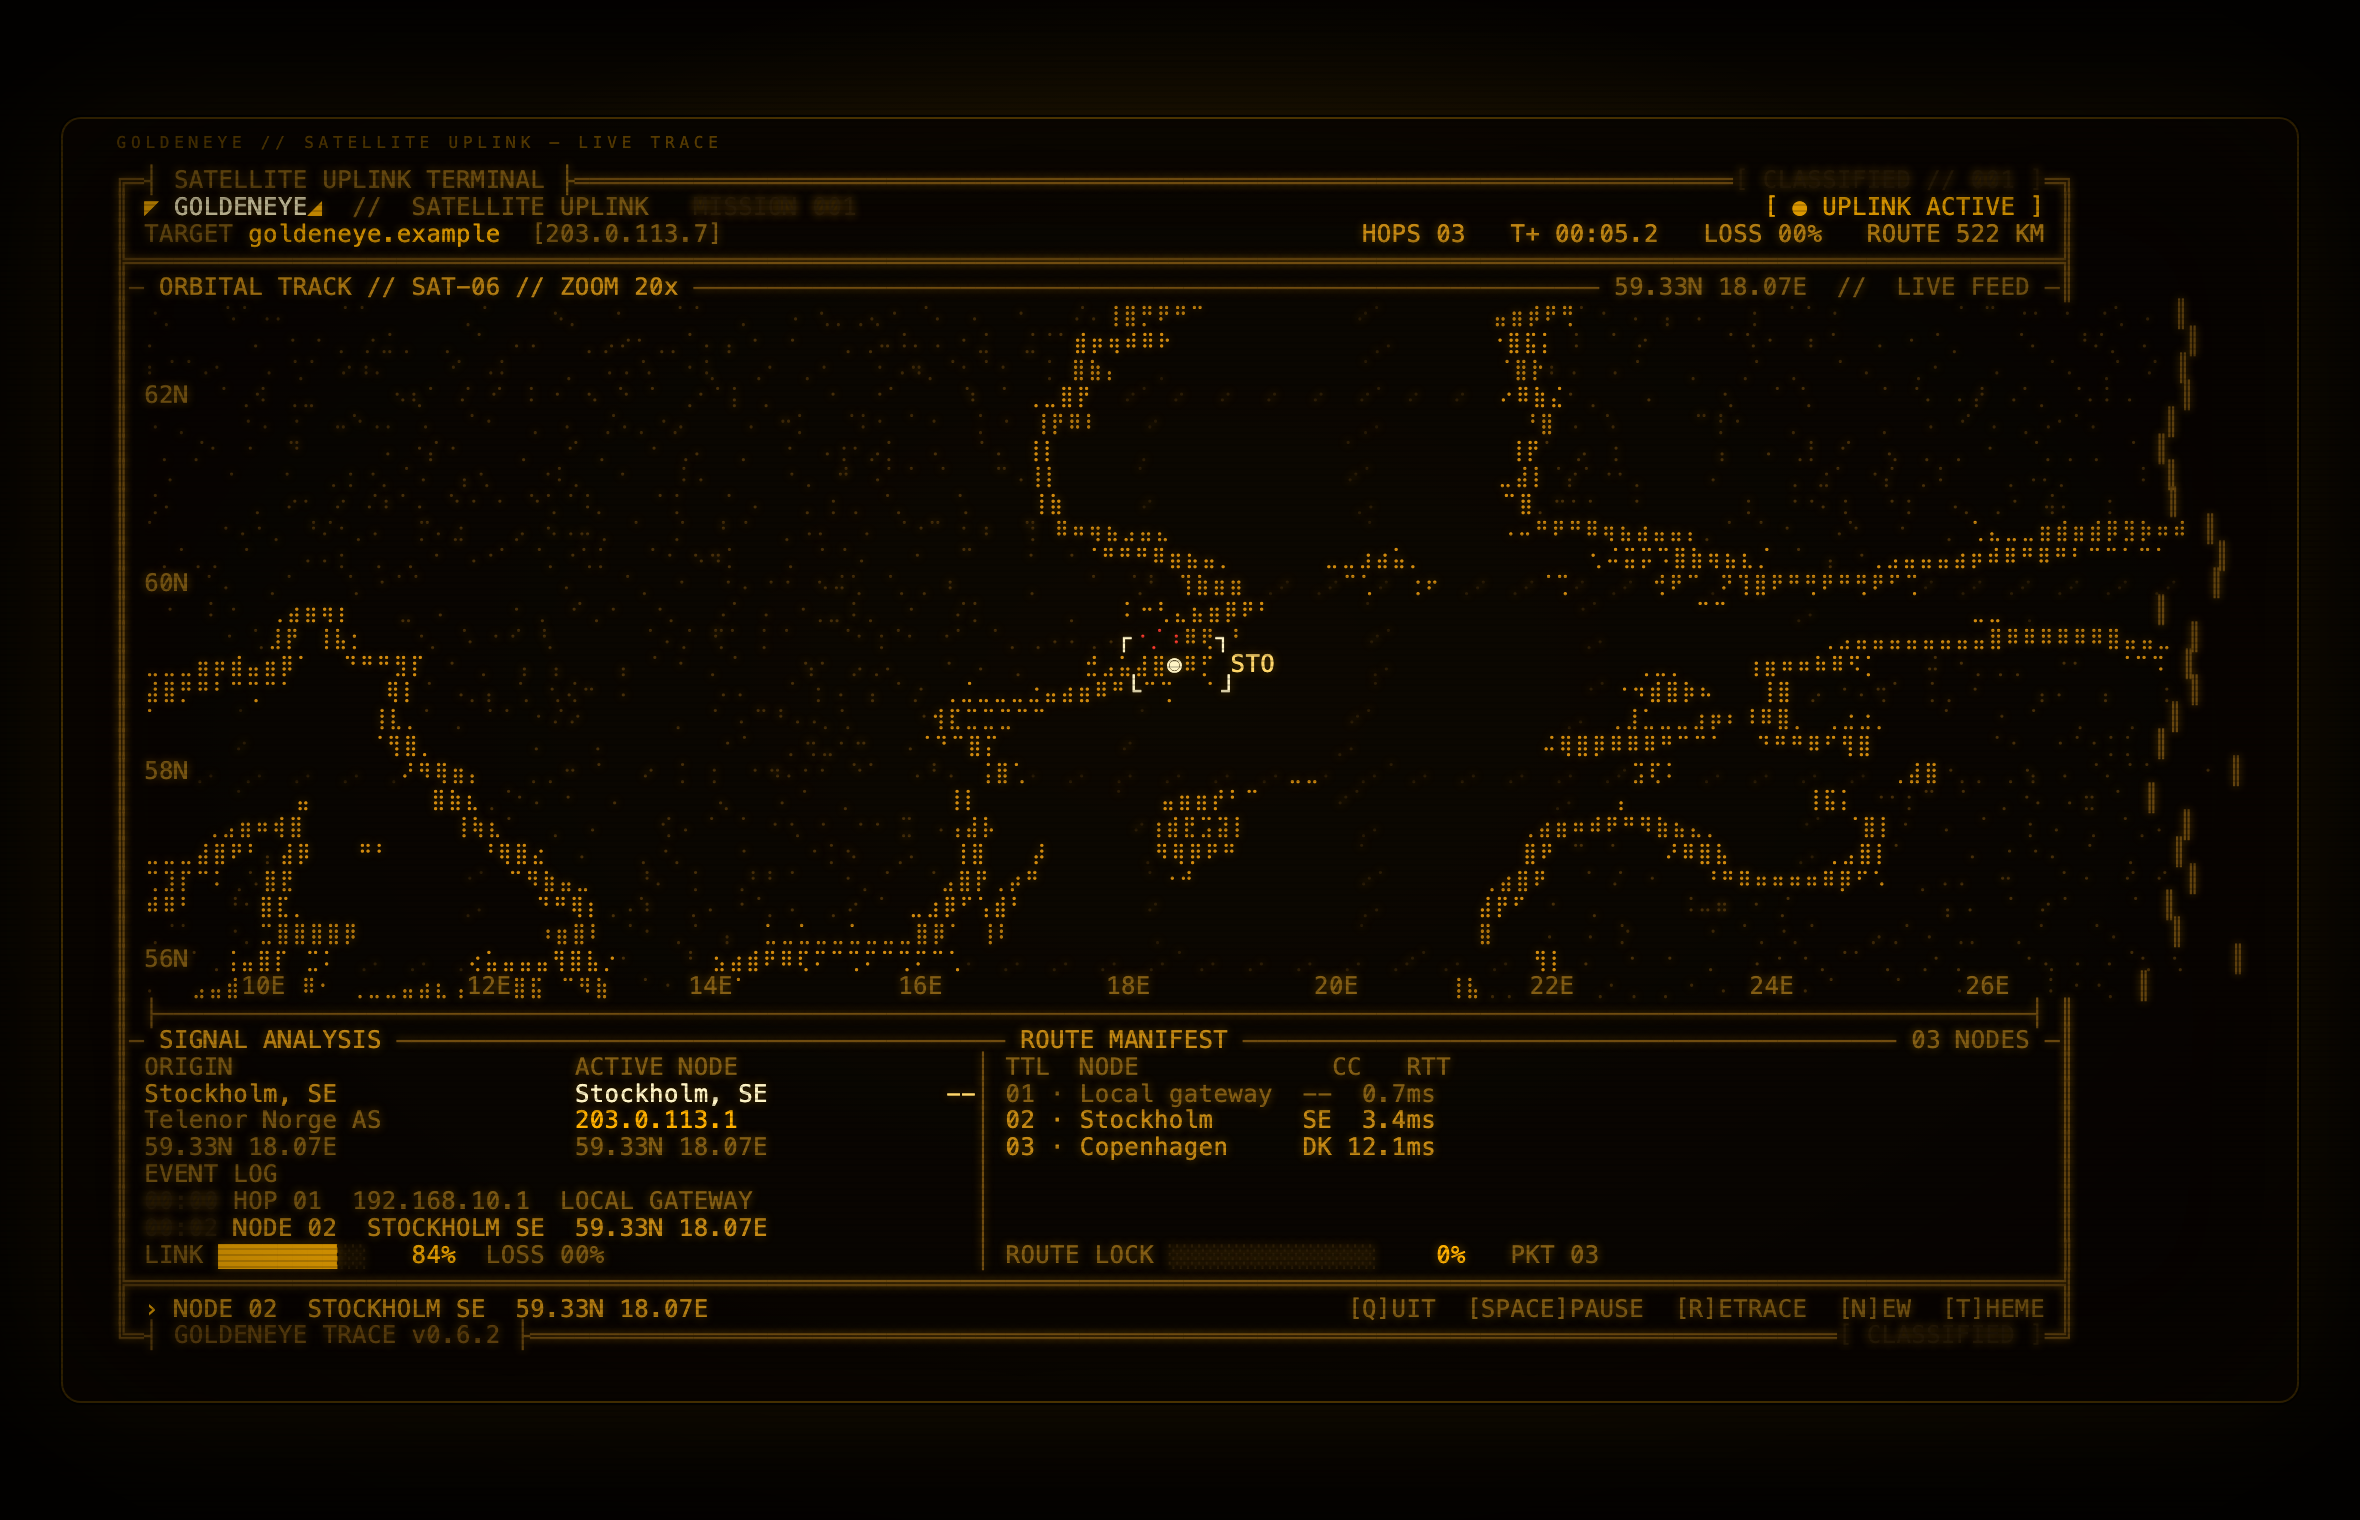
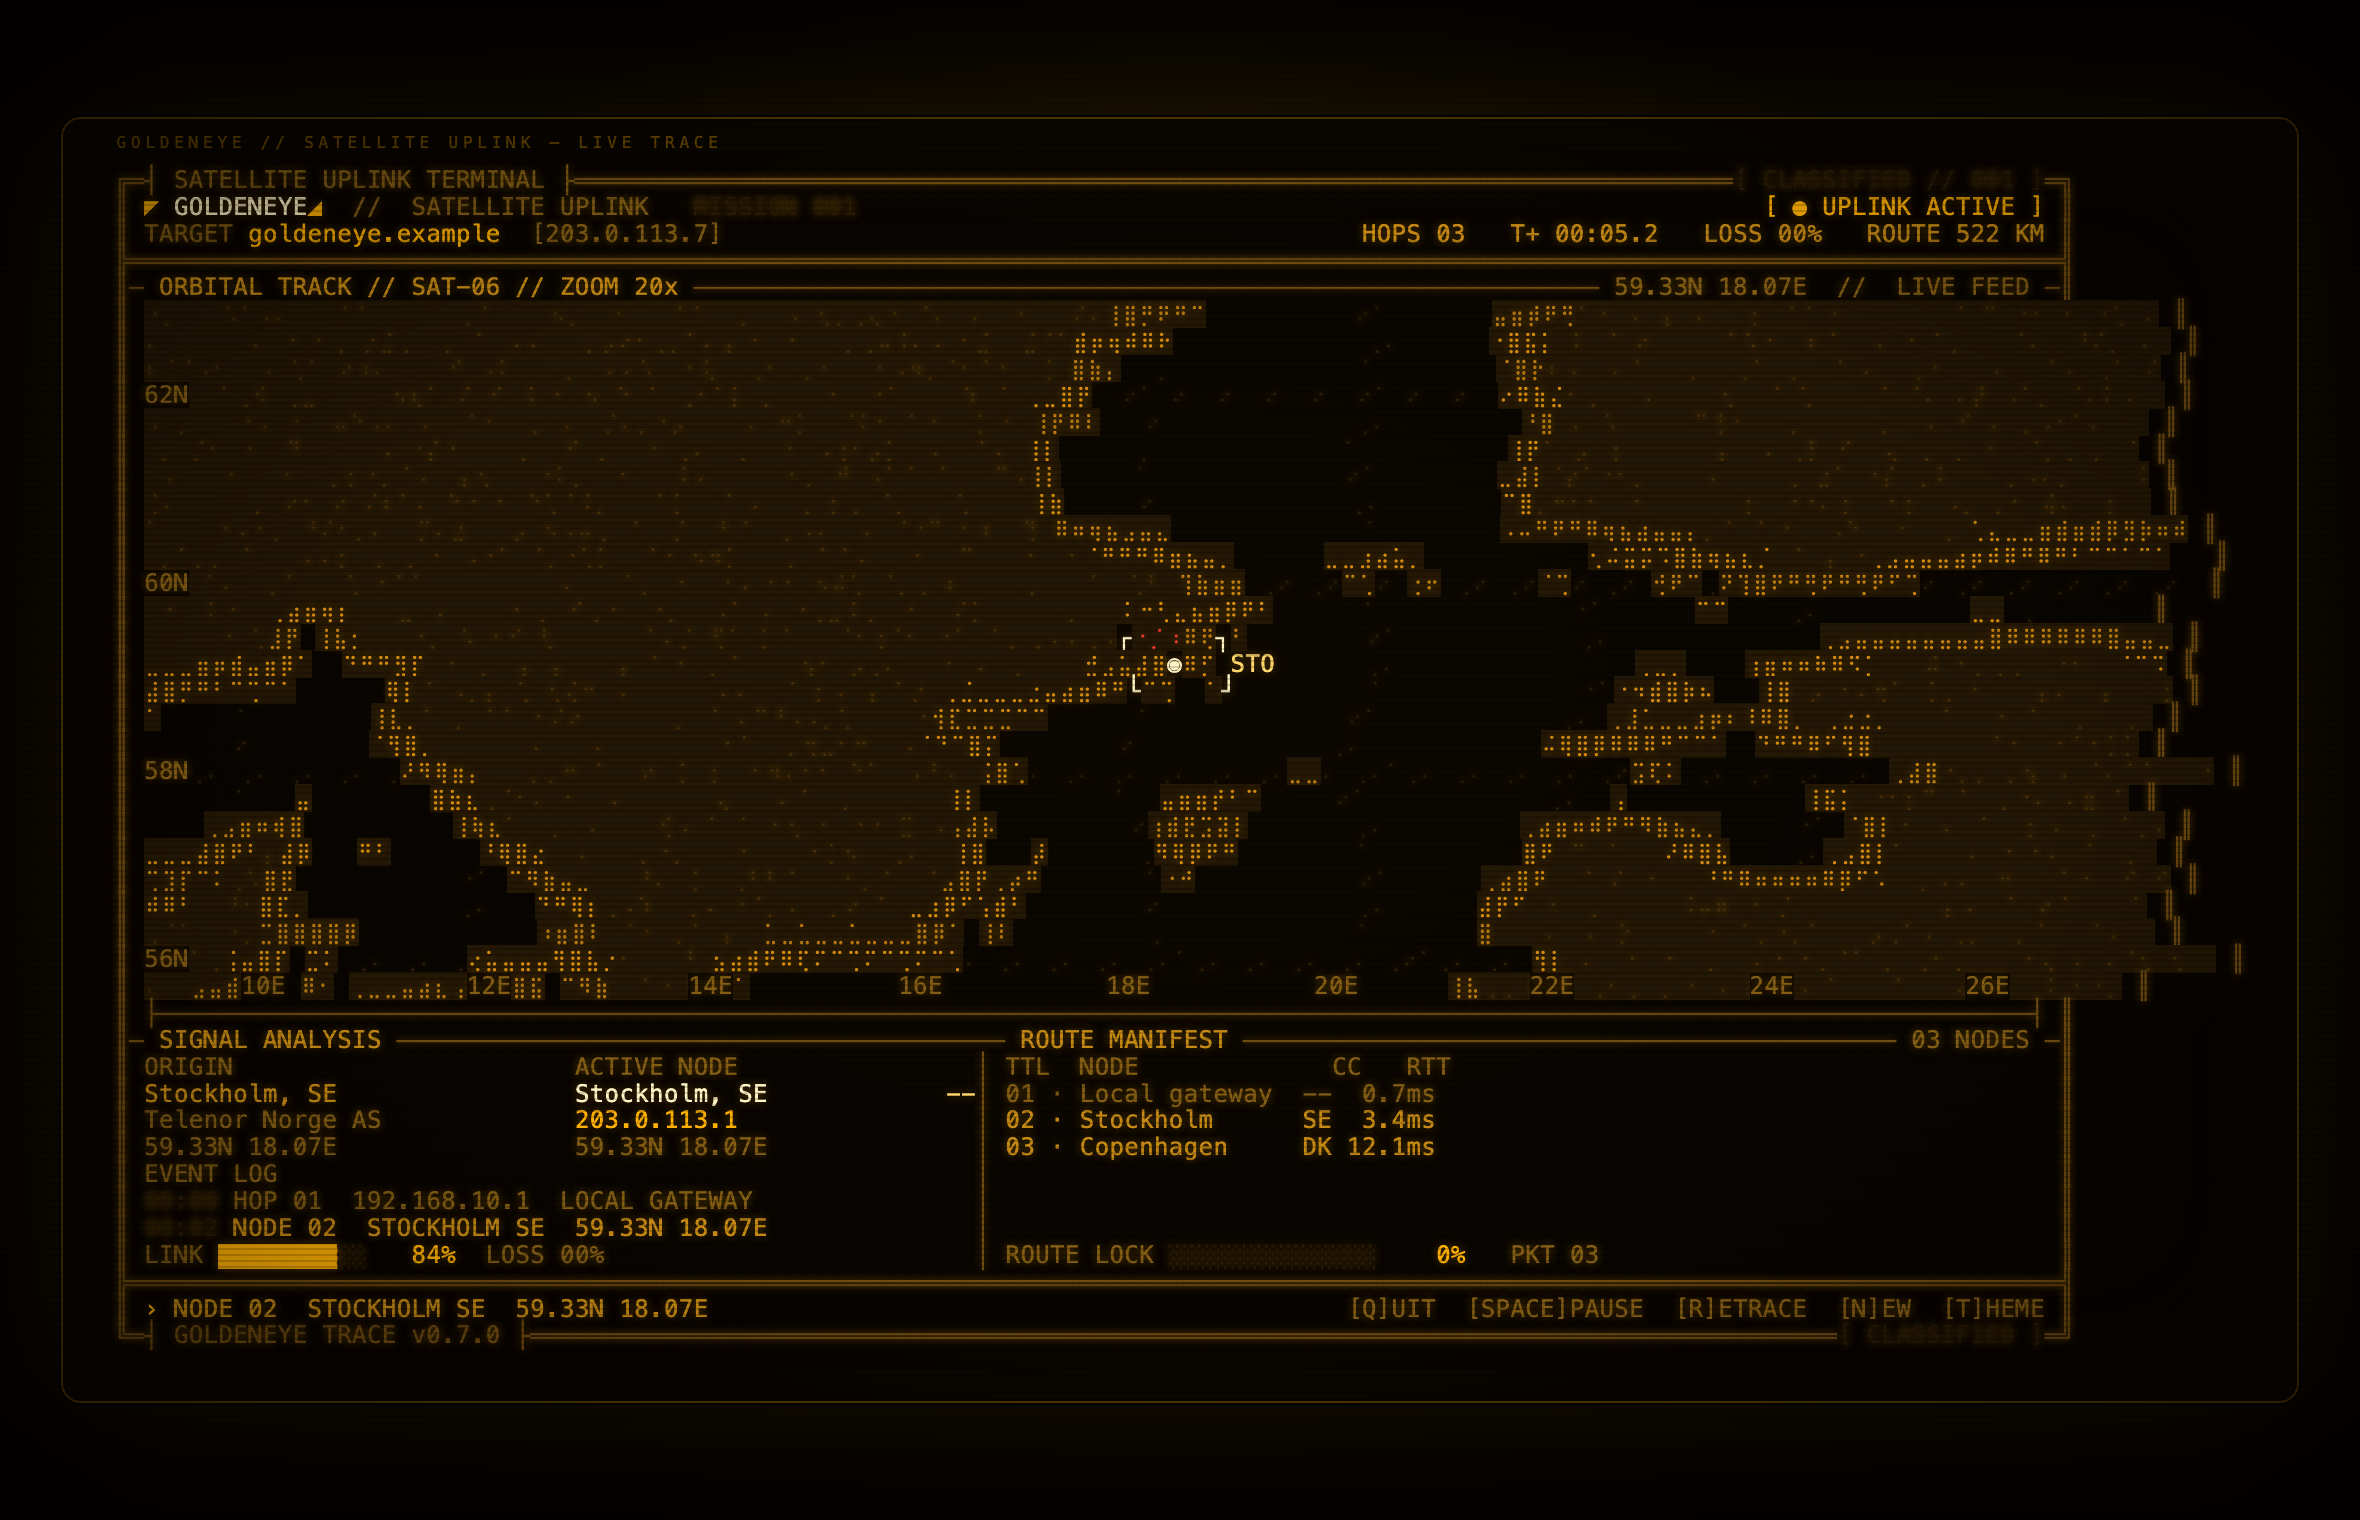
Tint land cells for clearer continents
Track land coverage per braille cell and give land a faint theme-specific background tint. Water stays on the terminal background, so coastlines and landmasses read clearly even where the stipple is sparse. Adds background color support to Screen and the preview renderer. Bumps the CLI to v0.7.0.

Changed region(s): [[0.0619, 0.1855, 0.5258, 0.6803], [0.6186, 0.1855, 0.928, 0.6803]]

diff --git a/src/render/braille.ts b/src/render/braille.ts
@@ -33,6 +33,7 @@ export class BrailleCanvas {
   private readonly levels: Uint8Array;
   /** Route dots, isolated so their color cannot spill onto neighboring dots. */
   private readonly routeBits: Uint8Array;
+  private readonly landCells: Uint8Array;
 
   constructor(cols: number, rows: number) {
     this.cols = Math.max(1, Math.floor(cols));
@@ -42,6 +43,16 @@ export class BrailleCanvas {
     this.bits = new Uint8Array(this.cols * this.rows);
     this.levels = new Uint8Array(this.cols * this.rows);
     this.routeBits = new Uint8Array(this.cols * this.rows);
+    this.landCells = new Uint8Array(this.cols * this.rows);
+  }
+
+  /** Marks the character cell containing this dot as land, including empty cells. */
+  markLand(x: number, y: number): void {
+    const dotX = Math.round(x);
+    const dotY = Math.round(y);
+    if (dotX < 0 || dotY < 0 || dotX >= this.dotWidth || dotY >= this.dotHeight) return;
+    const index = Math.floor(dotY / 4) * this.cols + Math.floor(dotX / 2);
+    this.landCells[index] = 1;
   }
 
   plot(x: number, y: number, level: CanvasLevel): void {
@@ -105,17 +116,21 @@ export class BrailleCanvas {
       for (let col = 0; col < this.cols; col += 1) {
         const index = row * this.cols + col;
         const bits = this.bits[index] ?? 0;
-        if (bits === 0) continue;
-        const routeBits = this.routeBits[index] ?? 0;
-        if (routeBits !== 0) {
-          // A braille cell has one foreground color. Drawing the union of its
-          // land/grid and route dots would tint the surrounding dots red, which
-          // makes the route look wider than it is. Keep only route dots here.
-          screen.put(offsetX + col, offsetY + row, String.fromCharCode(BRAILLE_BASE + routeBits), "route");
-          continue;
+        if (bits !== 0) {
+          const routeBits = this.routeBits[index] ?? 0;
+          if (routeBits !== 0) {
+            // A braille cell has one foreground color. Drawing the union of its
+            // land/grid and route dots would tint the surrounding dots red, which
+            // makes the route look wider than it is. Keep only route dots here.
+            screen.put(offsetX + col, offsetY + row, String.fromCharCode(BRAILLE_BASE + routeBits), "route");
+          } else {
+            const level = (this.levels[index] ?? 0) as CanvasLevel;
+            screen.put(offsetX + col, offsetY + row, String.fromCharCode(BRAILLE_BASE + bits), LEVEL_ROLES[level]);
+          }
         }
-        const level = (this.levels[index] ?? 0) as CanvasLevel;
-        screen.put(offsetX + col, offsetY + row, String.fromCharCode(BRAILLE_BASE + bits), LEVEL_ROLES[level]);
+        if (this.landCells[index] === 1) {
+          screen.setBackground(offsetX + col, offsetY + row, "landBg");
+        }
       }
     }
   }

diff --git a/src/render/screen.ts b/src/render/screen.ts
@@ -1,11 +1,14 @@
-import { foreground, type StyleRole, type Theme } from "../theme.ts";
+import { background, foreground, type StyleRole, type Theme } from "../theme.ts";
 
 interface Cell {
   ch: string;
   role: StyleRole | null;
+  bg: StyleRole | null;
 }
 
 const RESET = "\x1b[0m";
+const RESET_FG = "\x1b[39m";
+const RESET_BG = "\x1b[49m";
 
 export class Screen {
   readonly width: number;
@@ -18,6 +21,7 @@ export class Screen {
     this.cells = Array.from({ length: this.width * this.height }, () => ({
       ch: " ",
       role: null,
+      bg: null,
     }));
   }
 
@@ -33,7 +37,14 @@ export class Screen {
     for (const cell of this.cells) {
       cell.ch = ch;
       cell.role = role;
+      cell.bg = null;
     }
+  }
+
+  setBackground(x: number, y: number, role: StyleRole | null): void {
+    if (!this.inside(x, y)) return;
+    const cell = this.cells[this.index(x, y)];
+    if (cell) cell.bg = role;
   }
 
   put(x: number, y: number, text: string, role: StyleRole | null = null, maxWidth = Infinity): void {
@@ -47,6 +58,7 @@ export class Screen {
         if (cell) {
           cell.ch = ch;
           cell.role = role;
+          cell.bg = null;
         }
       }
       cursor += 1;
@@ -65,6 +77,7 @@ export class Screen {
           if (cell) {
             cell.ch = ch;
             cell.role = role;
+            cell.bg = null;
           }
         }
       }
@@ -116,19 +129,24 @@ export class Screen {
     const output: string[] = [];
     for (let y = 0; y < this.height; y += 1) {
       let line = "";
-      let current: StyleRole | null = null;
+      let currentRole: StyleRole | null = null;
+      let currentBg: StyleRole | null = null;
       for (let x = 0; x < this.width; x += 1) {
         const cell = this.cells[this.index(x, y)];
         if (!cell) continue;
         if (color) {
-          if (cell.role !== current) {
-            line += cell.role === null ? RESET : foreground(theme, cell.role);
-            current = cell.role;
+          if (cell.bg !== currentBg) {
+            line += cell.bg === null ? RESET_BG : background(theme, cell.bg);
+            currentBg = cell.bg;
+          }
+          if (cell.role !== currentRole) {
+            line += cell.role === null ? RESET_FG : foreground(theme, cell.role);
+            currentRole = cell.role;
           }
         }
         line += cell.ch;
       }
-      if (color && current !== null) line += RESET;
+      if (color && (currentRole !== null || currentBg !== null)) line += RESET;
       output.push(line);
     }
     return output;

diff --git a/src/theme.ts b/src/theme.ts
@@ -4,6 +4,7 @@ export type StyleRole =
   | "frame"
   | "grid"
   | "land"
+  | "landBg"
   | "coast"
   | "dim"
   | "mid"
@@ -28,6 +29,7 @@ export const THEMES: Record<ThemeName, Theme> = {
       frame: [112, 76, 16],
       grid: [42, 28, 6],
       land: [70, 46, 9],
+      landBg: [35, 23, 5],
       coast: [209, 138, 14],
       dim: [132, 94, 20],
       mid: [198, 138, 20],
@@ -47,6 +49,7 @@ export const THEMES: Record<ThemeName, Theme> = {
       frame: [38, 92, 56],
       grid: [14, 38, 24],
       land: [24, 68, 41],
+      landBg: [12, 34, 20],
       coast: [74, 190, 114],
       dim: [43, 125, 75],
       mid: [70, 195, 120],
@@ -66,6 +69,7 @@ export const THEMES: Record<ThemeName, Theme> = {
       frame: [38, 84, 104],
       grid: [14, 38, 50],
       land: [24, 64, 80],
+      landBg: [12, 32, 40],
       coast: [74, 180, 214],
       dim: [48, 118, 142],
       mid: [74, 190, 218],
@@ -88,4 +92,9 @@ export function themeByName(name: ThemeName): Theme {
 export function foreground(theme: Theme, role: StyleRole): string {
   const [r, g, b] = theme.colors[role];
   return `\x1b[38;2;${r};${g};${b}m`;
+}
+
+export function background(theme: Theme, role: StyleRole): string {
+  const [r, g, b] = theme.colors[role];
+  return `\x1b[48;2;${r};${g};${b}m`;
 }

diff --git a/test/braille.test.ts b/test/braille.test.ts
@@ -2,6 +2,7 @@ import assert from "node:assert/strict";
 import { test } from "node:test";
 import { BrailleCanvas } from "../src/render/braille.ts";
 import { Screen } from "../src/render/screen.ts";
+import { THEMES } from "../src/theme.ts";
 
 test("route cells do not tint surrounding land dots", () => {
   const canvas = new BrailleCanvas(1, 1);
@@ -26,4 +27,18 @@ test("keeps neighboring land dots when no route crosses the cell", () => {
 
   assert.equal(screen.get(0, 0).codePointAt(0), 0x2800 + 0x01);
   assert.equal(screen.get(1, 0).codePointAt(0), 0x2800 + 0x01);
+});
+
+test("tints land cells even when they contain no plotted dots", () => {
+  const canvas = new BrailleCanvas(2, 1);
+  canvas.markLand(2, 0);
+  canvas.plot(0, 0, 1);
+
+  const screen = new Screen(2, 1);
+  canvas.render(screen, 0, 0);
+  const line = screen.lines(true, THEMES.gold)[0] ?? "";
+
+  assert.match(line, /\x1b\[48;2;35;23;5m/);
+  assert.equal(screen.get(0, 0).codePointAt(0), 0x2800 + 0x01);
+  assert.equal(screen.get(1, 0), " ");
 });

diff --git a/test/screen.test.ts b/test/screen.test.ts
@@ -1,0 +1,27 @@
+import assert from "node:assert/strict";
+import { test } from "node:test";
+import { Screen } from "../src/render/screen.ts";
+import { THEMES } from "../src/theme.ts";
+
+test("renders foreground and background colors independently", () => {
+  const screen = new Screen(2, 1);
+  screen.put(0, 0, "L", "land");
+  screen.setBackground(0, 0, "landBg");
+  screen.put(1, 0, "W", "grid");
+
+  const line = screen.lines(true, THEMES.gold)[0] ?? "";
+
+  assert.match(line, /\x1b\[48;2;35;23;5m/);
+  assert.match(line, /\x1b\[38;2;70;46;9m/);
+  assert.match(line, /\x1b\[49m/);
+  assert.match(line, /\x1b\[0m$/);
+});
+
+test("text clears the background of its cell", () => {
+  const screen = new Screen(1, 1);
+  screen.setBackground(0, 0, "landBg");
+  screen.put(0, 0, "X", "bright");
+
+  const line = screen.lines(true, THEMES.gold)[0] ?? "";
+  assert.doesNotMatch(line, /\x1b\[48;/);
+});

diff --git a/src/render/frame.ts b/src/render/frame.ts
@@ -210,6 +210,7 @@ function drawTerrain(
       const maskY = clamp(Math.floor(((90 - lat) / 180) * LAND_HEIGHT), 0, LAND_HEIGHT - 1);
 
       if (mask[maskY * LAND_WIDTH + maskX] === 1) {
+        canvas.markLand(x, y);
         let coastal = false;
         for (let dy = -2; dy <= 2 && !coastal; dy += 1) {
           for (let dx = -2; dx <= 2; dx += 1) {

diff --git a/src/version.ts b/src/version.ts
@@ -1,1 +1,1 @@
-export const VERSION = "0.6.2";
+export const VERSION = "0.7.0";

diff --git a/README.md b/README.md
@@ -16,7 +16,7 @@
 ║ ORIGIN Stockholm, SE   →   ACTIVE Tokyo, JP   268.2ms   ROUTE LOCK 100%                ║
 ╠════════════════════════════════════════════════════════════════════════════════════════╣
 ║ › TARGET LOCKED // ORBITAL SOLUTION CONVERGED                                          ║
-╚═┤ GOLDENEYE TRACE v0.6.2 ├═════════════════════════════════════════════════════════════╝
+╚═┤ GOLDENEYE TRACE v0.7.0 ├═════════════════════════════════════════════════════════════╝
 ```
 
 ![GoldenEye Tracert running a locked demo mission](docs/preview.png)
@@ -30,7 +30,7 @@ The route is real. The satellite theater is not.
 - Defaults to ICMP probes on macOS/Windows, which reaches targets that filter UDP; use `--protocol udp` to match a plain `traceroute` run.
 - Looks up each public hop through [ip-api.com](https://ip-api.com/) in batches, with [ipwho.is](https://ipwho.is/) as a fallback. Results are cached for seven days.
 - Locates your own public origin through [ifconfig.co](https://ifconfig.co/), so the route starts where you are.
-- Draws a Natural Earth world map in Unicode braille, with a red great-circle route, pulsing reticle, city codes and live telemetry. Land stippling adapts to the available dot resolution, so small windows keep recognizable continents.
+- Draws a Natural Earth world map in Unicode braille, with a red great-circle route, pulsing reticle, city codes and live telemetry. Land masses get a faint background tint, while land stippling adapts to the available dot resolution.
 - Uses an adaptive camera: start at world scale, zoom into the first city, then pull back just enough to keep the growing route visible. The current scale is shown as `ZOOM` in the map header.
 - Interpolates great-circle arcs and splits them at the antimeridian, so a Honolulu → Tokyo hop wraps across the Pacific instead of cutting across the whole map.
 - Reports `TARGET LOCKED` only when the final hop really is the resolved target. Otherwise you get `NO TARGET LOCK`.
